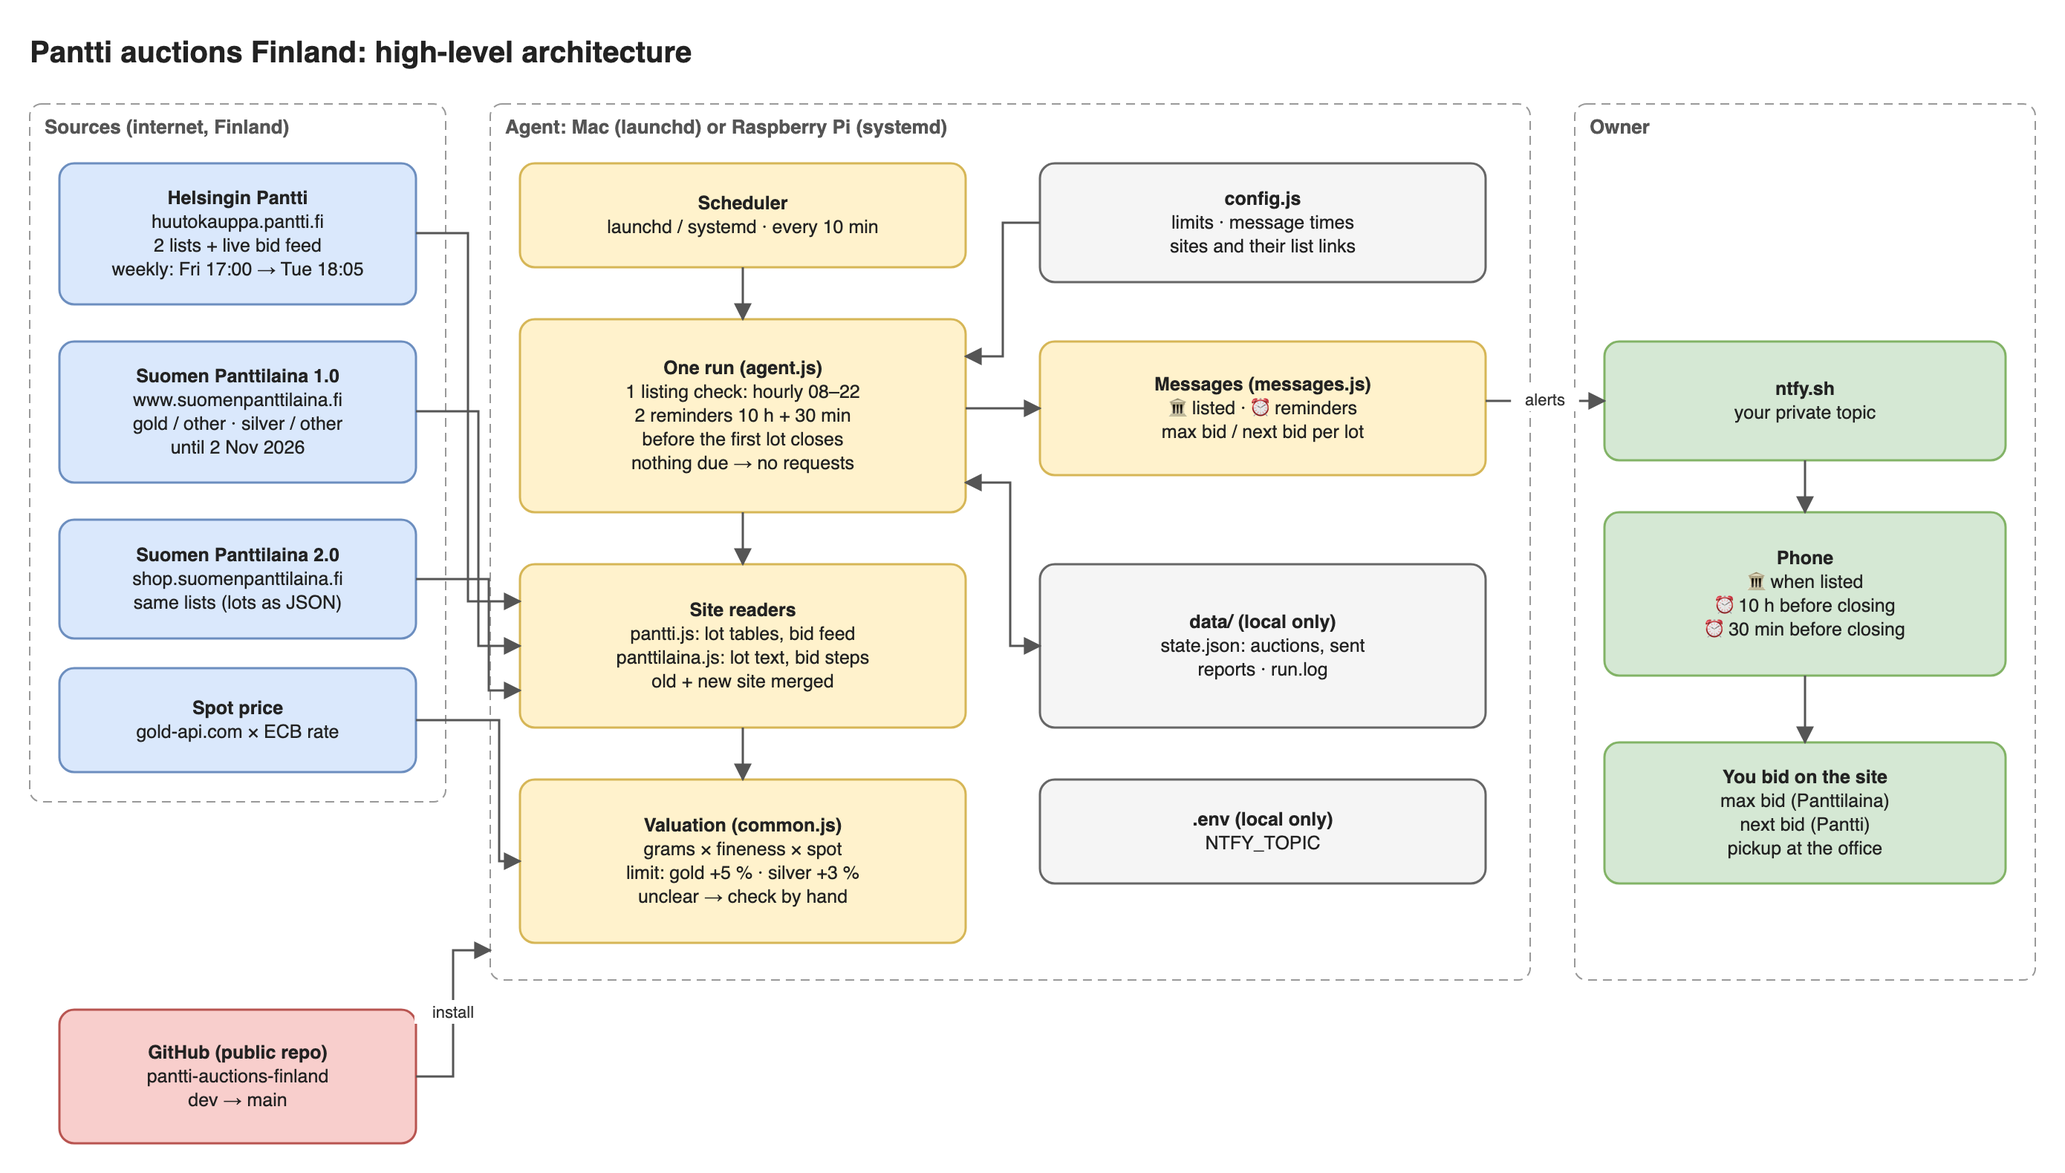
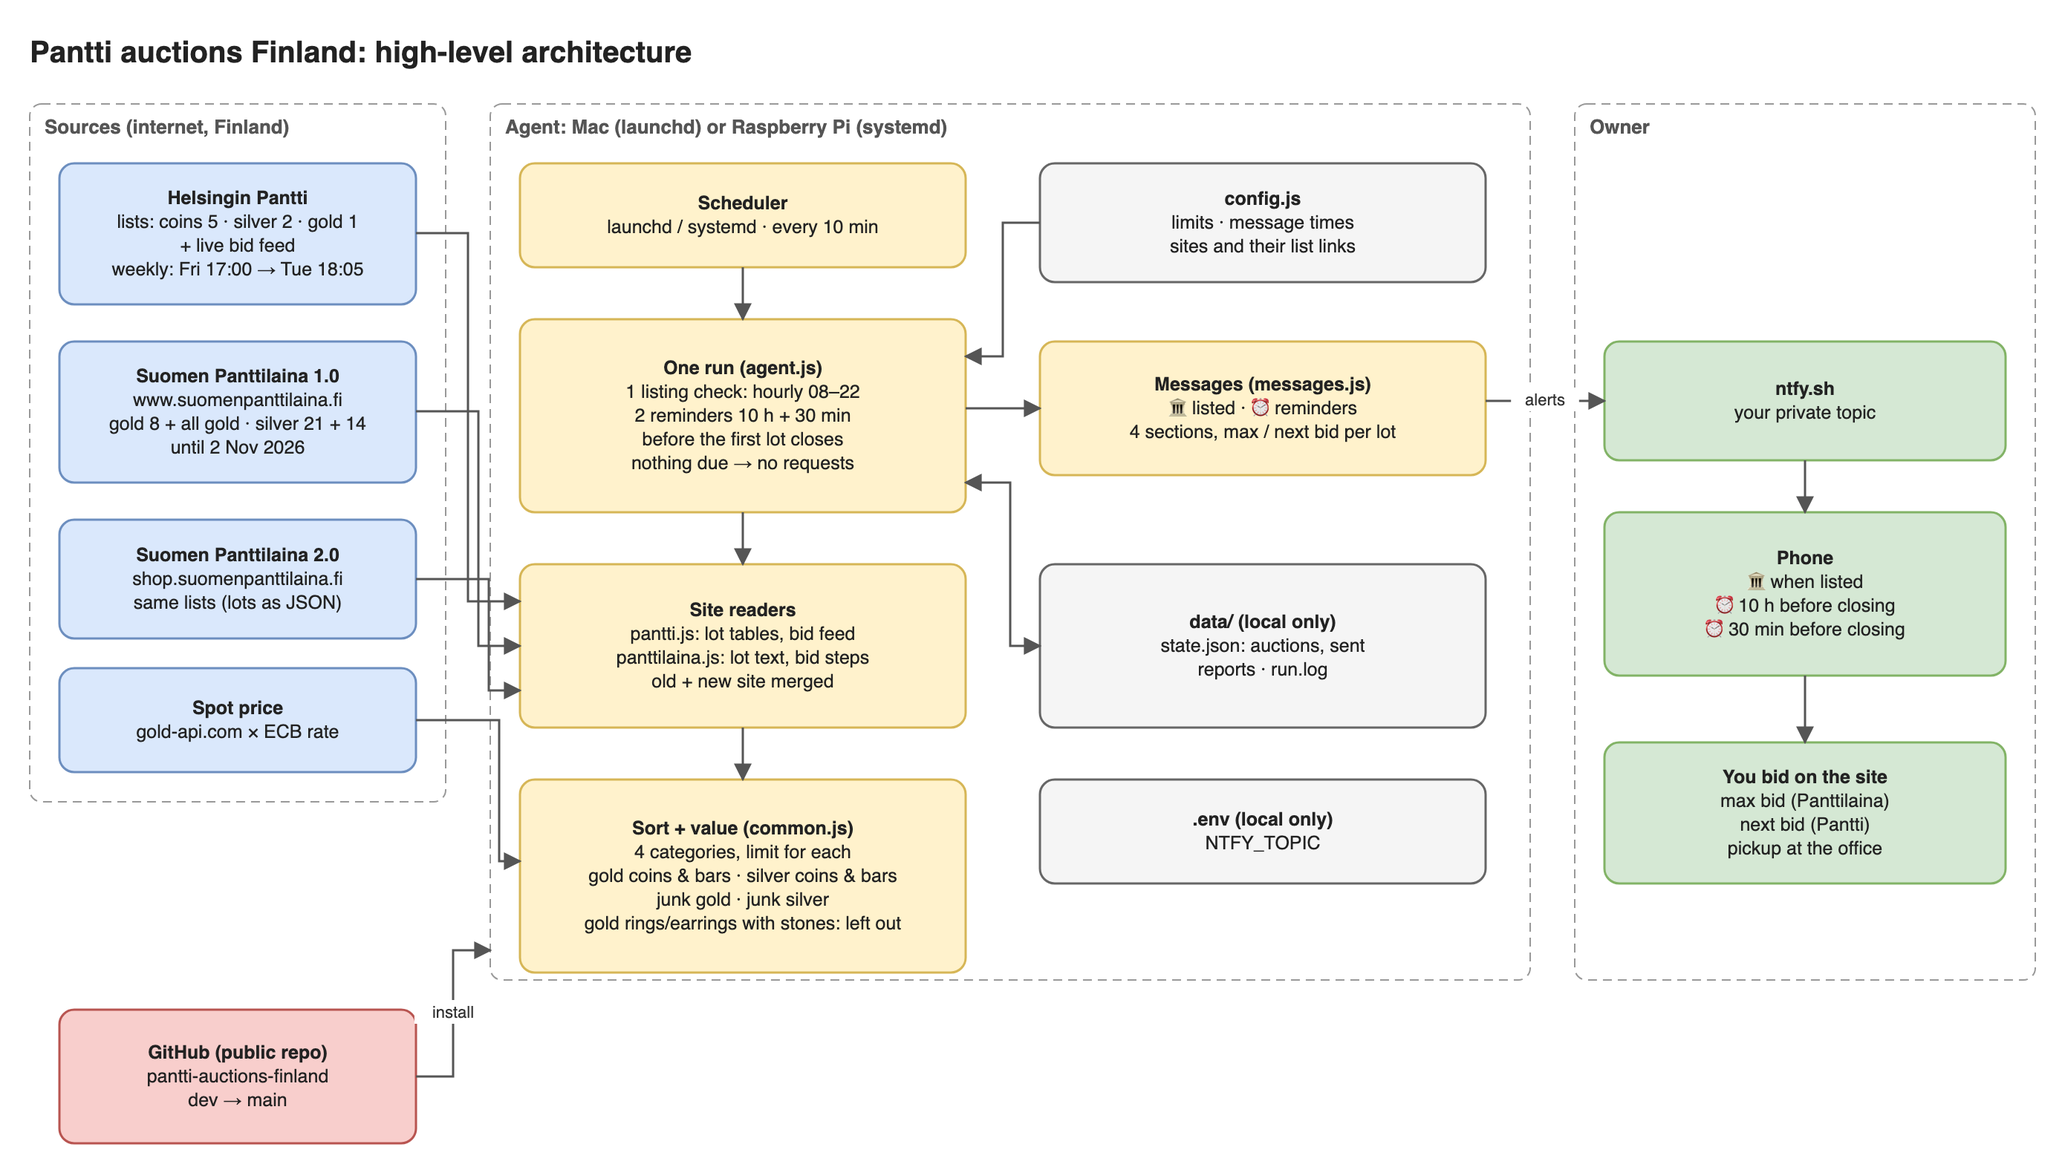
Specs and diagram: four categories (gold / silver coins & bars, junk gold, junk silver)
- New spec 05: the lists that feed each category, coins or junk by the lot
  text, gold rings and earrings with stones left out, a limit per category
- New lists: Helsingin Pantti category 1, Suomen Panttilaina silver cutlery
  (14) and all gold (1)
- Specs 01-04 and the architecture diagram follow; code comes next

diff --git a/specs/05-categories.md b/specs/05-categories.md
@@ -1,0 +1,88 @@
+# Spec: Item categories
+
+Use the following specification as your single source of truth.
+Do not make assumptions about any requirement not listed here.
+
+> **Status (25 Oct 2026):** structure agreed with the owner; code follows after the owner sets the limits (open points at the end).
+
+## Feature
+
+Sort every valued lot from every list into one of the owner's four categories, each with its own limit, and leave out the gold rings and earrings with stones that the owner does not want.
+
+## Overview
+
+Both sites sell four kinds of things the owner buys (owner, 25 Oct 2026):
+
+| # | Category | What it is |
+|---|---|---|
+| 1 | **Gold coins & bars** | gold coins, bars, ingots, medals |
+| 2 | **Silver coins & bars** | silver coins, bars, medals |
+| 3 | **Junk gold** | gold jewellery, broken pieces, dental gold, other gold items |
+| 4 | **Junk silver** | cutlery, silverware, silver jewellery, other silver items |
+
+**Lists read** (`config.js`; `{auction}` = the week's auction number at Helsingin Pantti)
+
+| Site | List | Link | Gives |
+|---|---|---|---|
+| Helsingin Pantti | coins & medals | `https://huutokauppa.pantti.fi/huutokauppa/{auction}/?category=5` | 1 and 2 (metal per row) |
+| Helsingin Pantti | silver | `https://huutokauppa.pantti.fi/huutokauppa/{auction}/?category=2` | 4 (a coin in it goes to 2) |
+| Helsingin Pantti | jewellery (gold) | `https://huutokauppa.pantti.fi/huutokauppa/{auction}/?category=1` | 3 (silver pieces in it: open point 1) |
+| Suomen Panttilaina | gold / other (8) | old `…/huutokauppa/?product_category=1&product_sub_category=8` · new `…/auction?SelectedProductSubCategories=8` | 1 (other gold items in it go to 3) |
+| Suomen Panttilaina | silver / other (21) | old `…/huutokauppa/?product_category=3&product_sub_category=21` · new `…/auction?SelectedProductSubCategories=21` | 2 (other silver items in it go to 4) |
+| Suomen Panttilaina | silver / cutlery (14) | old `…/huutokauppa/?product_category=3&product_sub_category=14` · new `…/auction?SelectedProductSubCategories=14` | 4 |
+| Suomen Panttilaina | gold, all subcategories (1) | old `…/huutokauppa/?product_category=1&product_sub_category=` · new `…/auction?SelectedProductCategories=1` | 3 (coins and bars in it go to 1) |
+
+Old site = `https://www.suomenpanttilaina.fi`, new site = `https://shop.suomenpanttilaina.fi`. The gold "all" list also holds every lot of gold / other: a lot in two lists is counted once (by lot number).
+
+**Metal:** Helsingin Pantti from each row (spec 02); Suomen Panttilaina from the list's `metal` (spec 04). Valuation as before (specs 02, 04).
+
+**Coins & bars or junk** (`categoryOf`): by the lot's own text, whatever list it came from.
+- Coins & bars: `raha` (kultaraha, hopearaha, juhlaraha, rahasarja), `kolikko`, `dukaat`, `markka` / `markkaa` (as a coin), `harkko`, `laatta`, `unssi` / `oz`, `sovereign`, `krugerrand`, `dollari`, `rupla`, `mitali`.
+- Everything else of that metal: junk.
+
+**Left out: gold rings and earrings with stones** (owner, 25 Oct 2026)
+- A **gold** lot that is a **ring** (`sormus`, the site's subcategory "Sormukset") or **earrings** (`korvakoru`, `korvarengas`, `korvanappi`, `korvikset`, subcategory "Korvakorut") **and** has a stone or gross weight (`br` / `BR`, `kivi`, `timantti`, `briljantti`, `helmi`, `ct`, `safiiri`, `rubiini`, `smaragdi`, `zirkoni`, `opaali`, `granaatti`, `topaasi`, `ametisti`) is left out completely: not valued, not counted, not in any message.
+- Other gross-weight gold (a pendant or brooch with a stone) stays **check by hand** (spec 02).
+
+**Limits** (`config.categories`): limit = metal value × the category's `maxOverSpot`, rounded down (spec 02). Until the owner sets them (open point 3), each category keeps the current limit of its metal: gold coins & bars 1.05, silver coins & bars 1.03, junk gold 1.05, junk silver 1.03.
+
+**Messages** (spec 03): the listed and reminder messages show the lots in four sections, in the order above, each with its own 🟢 lines and counts. Sections with no lots are left out.
+
+## Acceptance criteria
+
+- [ ] "Kultaraha Frans Josef I, 4 dukaattia, 986, Paino: 14 g" → gold coins & bars; "Kultaharkko, Umicore, 9999, Paino: 10 g" → gold coins & bars.
+- [ ] "Juhlaraha, 10 markkaa, 900, Paino: 24 g" in silver / other → silver coins & bars; "Hopeinen tarjotin, 830, Paino: 400 g" in silver / other → junk silver.
+- [ ] "Viisi kahvilusikkaa, 813, Paino: 39,8 g" (cutlery) → junk silver; "Viallisia koruja, 585, Paino: 17 g" → junk gold.
+- [ ] "Kivisormus, koko 18, 585br, Paino: 4,1 g", "Timanttisormus …, 585, Paino: 4,2 g" and "Helmikorvakorut, 585br, Paino: 13,9 g" are left out; "Sileä sormus, 585, Paino: 1,3 g" → junk gold.
+- [ ] A lot in both gold / other and gold (all) appears once.
+- [ ] Each category uses its own `maxOverSpot`.
+
+## Out of scope
+
+- Collector or design value (a coin's numismatic premium, a Wirkkala tray): the limits are metal-based only.
+- Other metals (platinum, bronze).
+
+## Edge cases
+
+- **A coin in a junk list** (a silver commemorative coin in Helsingin Pantti's silver list): goes to coins & bars by its text.
+- **A lot whose rows mix coins and jewellery** (Helsingin Pantti): coins & bars only when every row is a coin or bar; otherwise junk.
+- **A word inside another word** ("raha" in "rahakas"): words are matched at the start of a word or as the known compounds above.
+
+## Open points (owner)
+
+1. Helsingin Pantti's category 1 is its **jewellery** list: gold, silver (`H925BR`, `TH925`) and bronze. Proposed: gold → junk gold, silver → junk silver, other metals left out silently.
+2. Medals (`mitali`) counted with coins & bars. Proposed: yes.
+3. **The four limits.** Proposed from 500 closed Suomen Panttilaina lots per list (20 Oct 2026): gold coins & bars +10 % (contested lots closed at about +12 %), silver coins & bars +3 % (closed at about spot), junk gold and junk silver below spot (the refiner pays below spot; for example −8 % and −15 %).
+4. A smallest lot worth a pickup (for example 50 € metal value). Proposed: yes, per category.
+
+## Security impact
+
+None beyond specs 02 and 04: the same public pages, two more lists per listing check.
+
+## Threat modeling
+
+| Threat | Mitigation |
+|---|---|
+| A junk lot is advised with the coin limit | The category is decided by the lot's own text; a mixed lot is junk |
+| An unwanted ring or earring with a stone fills the messages | Left out completely before valuation |
+| More lists slow the run or get it blocked | 1 s between requests; listing checks hourly in the daytime |

diff --git a/specs/README.md b/specs/README.md
@@ -5,6 +5,8 @@ These files fully specify Pantti auctions Finland: a small program that watches 
 - **Helsingin Pantti** (huutokauppa.pantti.fi): one auction a week, Friday 17:00 → Tuesday from about 18:05.
 - **Suomen Panttilaina** (suomenpanttilaina.fi): four offices, each with an auction every two weeks, lots closing from 19:00.
 
+Lots are sorted into the owner's **four categories**: gold coins & bars, silver coins & bars, junk gold and junk silver, each with its own limit (spec 05).
+
 For every auction the owner gets **one message when it is listed**, then **reminders before it closes** (by default 10 h and 30 min before the first watched lot closes), with every lot valued by its own weight and fineness at today's spot price and the most to bid.
 
 It is **not** an always-on service. The operating system starts it every few minutes; each run works out in Helsinki time what is due, does it and exits. A run with nothing due reads nothing from the internet. It uses no AI.
@@ -17,6 +19,7 @@ Every spec follows the owner's back-end template, `_spec-template.md` (project r
 | 02 | [Helsingin Pantti](02-auction-reading-and-advice.md) | Auction number and window, list pages, lot tables, fineness codes, BR lots, valuation, the bid feed, limits, verdicts |
 | 03 | [Messages and state](03-messages-and-state.md) | Listing checks, reminders, the messages, the state file that makes each message go out once, failure alerts |
 | 04 | [Suomen Panttilaina](04-suomen-panttilaina.md) | Old and new site lists, lot text, offices, bid steps, max bid, auctions by office and day |
+| 05 | [Item categories](05-categories.md) | The four categories, the lists that feed them, coins-or-junk by text, gold rings and earrings with stones left out, a limit per category |
 
 ## Words used in every spec
 
@@ -26,7 +29,8 @@ Every spec follows the owner's back-end template, `_spec-template.md` (project r
 - **Lot**: one item for sale, with its weight and fineness.
 - **Closing time** of an auction: when its first watched lot closes.
 - **Metal value**: fine grams × today's spot price in euros per gram.
-- **Limit**: the most the owner will bid: metal value × 1.05 for gold, × 1.03 for silver.
+- **Category**: gold coins & bars, silver coins & bars, junk gold or junk silver (spec 05).
+- **Limit**: the most the owner will bid: metal value × the category's `maxOverSpot` (until the owner sets them: 1.05 for gold, 1.03 for silver).
 - **Next bid**: the lowest bid the site accepts now.
 - **Max bid** (Suomen Panttilaina): the highest legal bid amount not above the limit; the site bids for the owner up to it.
 
@@ -38,6 +42,7 @@ Every spec follows the owner's back-end template, `_spec-template.md` (project r
 - 21 Oct 2026: limits **gold +5 %**, **silver +3 %** over metal value, for both sites (were coins +10 %, silver 0 %).
 - 21 Oct 2026: messages for every auction: **once when listed**, then **10 h** and **30 min** before closing. Times and links are settings in `config.js`.
 - 21 Oct 2026: repository renamed from `helsingin-pantti-agent` to `pantti-auctions-finland`.
+- 25 Oct 2026: **four categories**: gold coins & bars, silver coins & bars, junk gold, junk silver, each with its own limit. New lists: Helsingin Pantti category 1 (gold jewellery), Suomen Panttilaina silver cutlery (14) and all gold (category 1). **Gold rings and earrings with stones or br are left out.** Limits per category still to be set (spec 05, open points).
 - No secrets in the public repo: the ntfy topic and the data stay on the owner's computer.
 
 ## Keeping these specs current

diff --git a/specs/04-suomen-panttilaina.md b/specs/04-suomen-panttilaina.md
@@ -9,7 +9,7 @@ Read Suomen Panttilaina's gold / other and silver / other auction lists on its o
 
 ## Overview
 
-Suomen Panttilaina (suomenpanttilaina.fi) has four offices. Each holds an online auction every two weeks on its own weekday; lots are listed about two weeks ahead and close one by one from 19:00, 30 s apart. A bid in the last 30 s adds 30 s. Bidders can leave a **max bid** that the site raises step by step for them. There is no buyer's fee; the owner always picks up, so shipping is never part of the limit (owner, 21 Oct 2026). Only subcategories **gold / other (8)** and **silver / other (21)** are read: that is where the coins and bars are.
+Suomen Panttilaina (suomenpanttilaina.fi) has four offices. Each holds an online auction every two weeks on its own weekday; lots are listed about two weeks ahead and close one by one from 19:00, 30 s apart. A bid in the last 30 s adds 30 s. Bidders can leave a **max bid** that the site raises step by step for them. There is no buyer's fee; the owner always picks up, so shipping is never part of the limit (owner, 21 Oct 2026). Lists read (owner, 21 and 25 Oct 2026): **gold / other (8)** and **silver / other (21)**, where the coins and bars are; **silver / cutlery (14)** and **all gold (category 1)** for junk silver and junk gold. How lots are sorted into the four categories, and the gold rings and earrings that are left out: spec 05.
 
 Facts from the site (studied 20–21 Oct 2026, auction terms page and site scripts):
 
@@ -40,7 +40,7 @@ The agent does not depend on these weekdays: it reads whatever is listed.
 | `category`, `office` | the two `span`s of `.office-type` ("Kulta / Muut", "Myyrmäen Pantti") |
 
 **New site (Huutokauppa 2.0, the only one from 3 Nov 2026)**
-- `GET <newSiteUrl>` (`https://shop.suomenpanttilaina.fi/auction?SelectedProductSubCategories=8` / `21`; the site selects that subcategory, verified 21 Oct 2026).
+- `GET <newSiteUrl>` (`https://shop.suomenpanttilaina.fi/auction?SelectedProductSubCategories=8` / `21` / `14`, and `?SelectedProductCategories=1` for all gold; the site selects that subcategory or category, verified 21 Oct 2026).
 - The lots are JSON in `<script id="auction-items-json">`. Fields (from the site's own `auction-list.js`, `auction-data-presenter.js`, `bid-handler.js`): `number`, `heading`, `descriptionLong`, `amount`, `bidStartAmount` (the lowest bid the bid form allows: the next bid), `bidCount`, `closingTimeUtcSec`, `isOpen`, `category`, `officeName`. Lots with `isOpen: false` are left out. Link: the list page.
 - **Not yet verified on real lots:** on 21 Oct 2026 the new site listed none. When it does, a page is saved as a test fixture and this reader is checked (field values, paging, lot links).
 - robots.txt of the shop disallows only `/secure` and `/external`; neither is used.
@@ -78,7 +78,7 @@ The agent does not depend on these weekdays: it reads whatever is listed.
 
 ## Out of scope
 
-- Other categories (jewellery, watches, …) unless the owner adds a list in `config.js`.
+- Other categories (watches, art, …) unless the owner adds a list in `config.js`.
 - Logging in, placing max bids, shipping costs.
 - Closed auctions and their prices.
 

diff --git a/specs/02-auction-reading-and-advice.md b/specs/02-auction-reading-and-advice.md
@@ -22,7 +22,7 @@ Code only, no AI: the auction's own table gives weight and fineness, the public 
 - 1 s pause between requests (`config.requestDelayMs`).
 
 **Lists**
-- Each list link has `{auction}` in it, replaced by the auction number; the agent adds `page=<p>` (from 0), `sort=default` and `search=` when missing. Defaults: `https://huutokauppa.pantti.fi/huutokauppa/{auction}/?category=5` (coins & medals) and `…?category=2` (silver).
+- Each list link has `{auction}` in it, replaced by the auction number; the agent adds `page=<p>` (from 0), `sort=default` and `search=` when missing. Defaults: `https://huutokauppa.pantti.fi/huutokauppa/{auction}/?category=5` (coins & medals), `…?category=2` (silver) and `…?category=1` (jewellery: gold, also silver and bronze pieces). Which of the four categories a lot goes to, and which gold rings and earrings are left out: spec 05.
 - Read pages until a page adds no new lots (at most 40 pages).
 - An auction with no lots in any list fails: `Helsingin Pantti auction <n> has no lots (the number changed or it is not open yet)`.
 - Each lot block (`div.col-12.col-sm-6.col-xl-4.item`):
@@ -44,6 +44,7 @@ Code only, no AI: the auction's own table gives weight and fineness, the public 
 |---|---|---|
 | `H925`, `H830`, `585` | 0.925, 0.830, 0.585 | no |
 | `H925BR`, `585BR`, `585br` | 0.925, 0.585 | yes (gross weight) |
+| `TH925` (seen in the jewellery list) | 0.925 | no |
 | `999,9`, `9999` | 0.9999 | no |
 | `1000` | 1.000 | no |
 | anything else (`HOP`, empty) | not stated | — |
@@ -60,7 +61,7 @@ Code only, no AI: the auction's own table gives weight and fineness, the public 
 
 **Spot** (`src/spot.js`): `https://api.gold-api.com/price/XAU` and `/XAG` (USD per troy ounce) × the ECB rate from `https://api.frankfurter.dev/v1/latest?from=USD&to=EUR`; €/g = €/oz ÷ 31.1035. Missing or zero → the run fails (never an old price).
 
-**Limit** = `meltEur × maxOverSpot[metal]` (gold 1.05, silver 1.03), rounded **down** (to 10 cents under 100 €, whole euros from 100 €).
+**Limit** = `meltEur × maxOverSpot` of the lot's category (spec 05; until set: gold 1.05, silver 1.03), rounded **down** (to 10 cents under 100 €, whole euros from 100 €).
 
 **Advice from the list only** (the listing message, `preview`)
 - No bids yet (`startingPrice`): next bid = the start price → `buy` when ≤ limit, else `skip`.

diff --git a/specs/01-environment-and-schedule.md b/specs/01-environment-and-schedule.md
@@ -29,7 +29,7 @@ run.js               one run (this spec)
 config.js            settings: limits, BR share, message times, sites and their list links, delays
 src/env.js           .env loader, data folder, Helsinki time zone
 src/http.js          web requests with retries, HTML text helpers
-src/common.js        Helsinki time, number and fineness parsing, valuation, limits, formatting
+src/common.js        Helsinki time, number and fineness parsing, valuation, categories, limits, formatting
 src/spot.js          gold and silver spot price in euros
 src/pantti.js        Helsingin Pantti (02)
 src/panttilaina.js   Suomen Panttilaina (04)
@@ -51,15 +51,15 @@ data/                created at run time: state, reports, log. Never committed.
 
 | Setting | Default | Meaning |
 |---|---|---|
-| `maxOverSpot` | `{ gold: 1.05, silver: 1.03 }` | Limit = metal value × this |
+| `categories` | gold coins & bars, silver coins & bars, junk gold, junk silver, each `{ name, metal, maxOverSpot }` | The four categories and their limits (spec 05); limit = metal value × `maxOverSpot` |
 | `brSilverShare` | 0.30 | Silver share of a gross-weight (br) row |
 | `notify.whenListed` | true | One message when an auction is listed |
 | `notify.beforeClosing` | `['10h', '30min']` | Reminders before closing; `'1h30min'` style; `[]` = none |
 | `notify.listingCheckEvery` | `'60min'` | How often new listings are looked for |
 | `notify.listingCheckHours` | `['08:00', '22:00']` | Helsinki times when listings are looked for |
 | `checkEveryMinutes` | 10 | How often the scheduler starts a run (5–60) |
-| `sources.pantti` | enabled, reference 966 / 2026-10-16, two list links | Helsingin Pantti (02) |
-| `sources.panttilaina` | enabled, two lists × two sites, `warnAfterDaysWithoutLots` 7 | Suomen Panttilaina (04) |
+| `sources.pantti` | enabled, reference 966 / 2026-10-16, three list links (categories 5, 2, 1) | Helsingin Pantti (02, 05) |
+| `sources.panttilaina` | enabled, four lists × two sites (gold / other 8, silver / other 21, silver cutlery 14, all gold 1), `warnAfterDaysWithoutLots` 7 | Suomen Panttilaina (04, 05) |
 | `requestDelayMs`, `requestTimeoutMs`, `retryDelaysMs` | 1 s, 30 s, 5 s / 15 s | Politeness and retries |
 
 A time written wrongly in `notify` (for example `'ten hours'`) stops the run with a message naming the value.

diff --git a/specs/03-messages-and-state.md b/specs/03-messages-and-state.md
@@ -26,6 +26,7 @@ Each scheduled run (01, `runDue` in `src/agent.js`) asks two questions: is a **l
 - Only auctions of sites that are still enabled get reminders.
 
 **Messages** (`src/messages.js`; ntfy in `src/notify.js`)
+- Inside each listed and reminder message the lots are shown in the four category sections of spec 05 (gold coins & bars, silver coins & bars, junk gold, junk silver), each with its own lines and counts; empty sections are left out. Gold rings and earrings with stones are never shown.
 - `POST https://ntfy.sh/` (root URL) with JSON `{ topic, title, message, priority, click?, actions? }`; priority as a number (default 3, high 4, low 2); at most 3 actions; 15 s time limit; a non-OK answer fails with `ntfy answered <status>: <text>`. No topic: `{ skipped: 'no ntfy topic (NTFY_TOPIC in .env)' }`, which counts as not sent.
 - Numbers in Finnish style: euros with 2 decimals only when not whole and under 100 €; percent with a sign and one decimal under 10 %.
 - Messages over 3 800 characters are cut with "… (more on the computer)".
